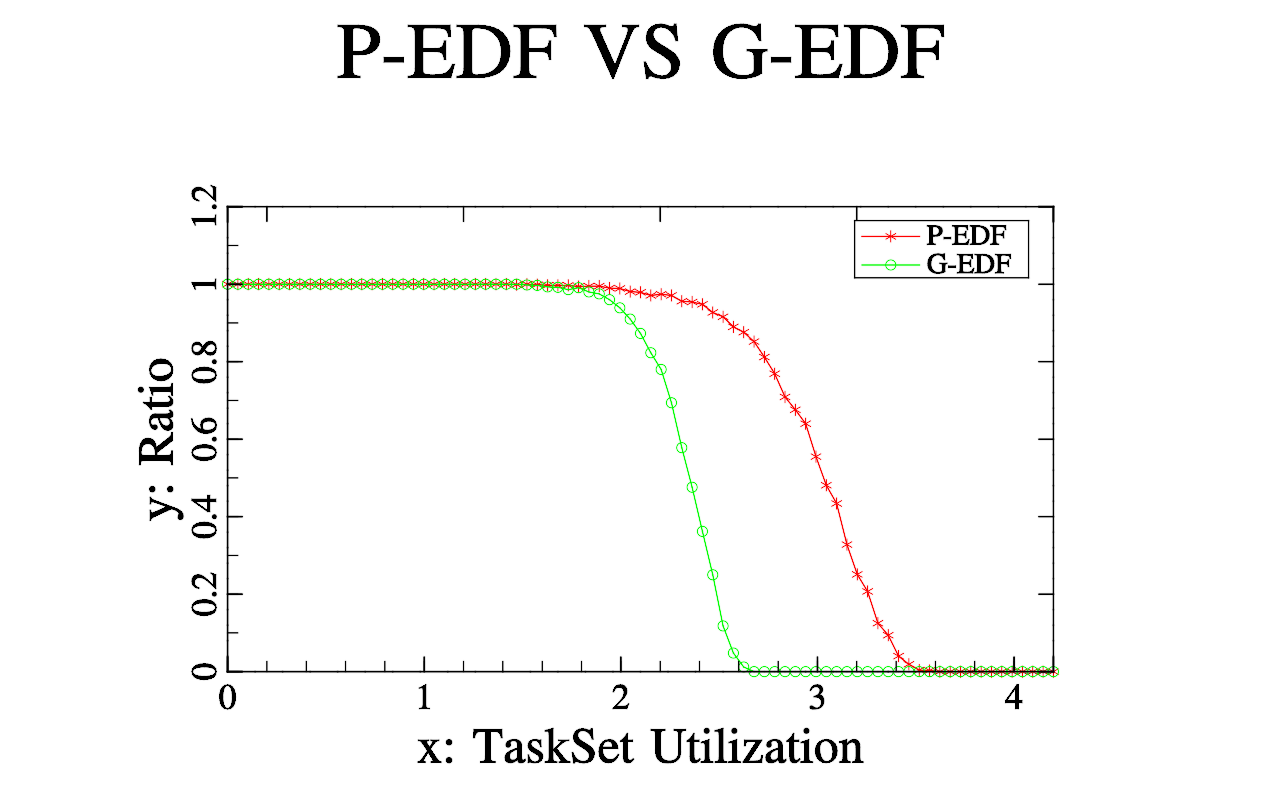
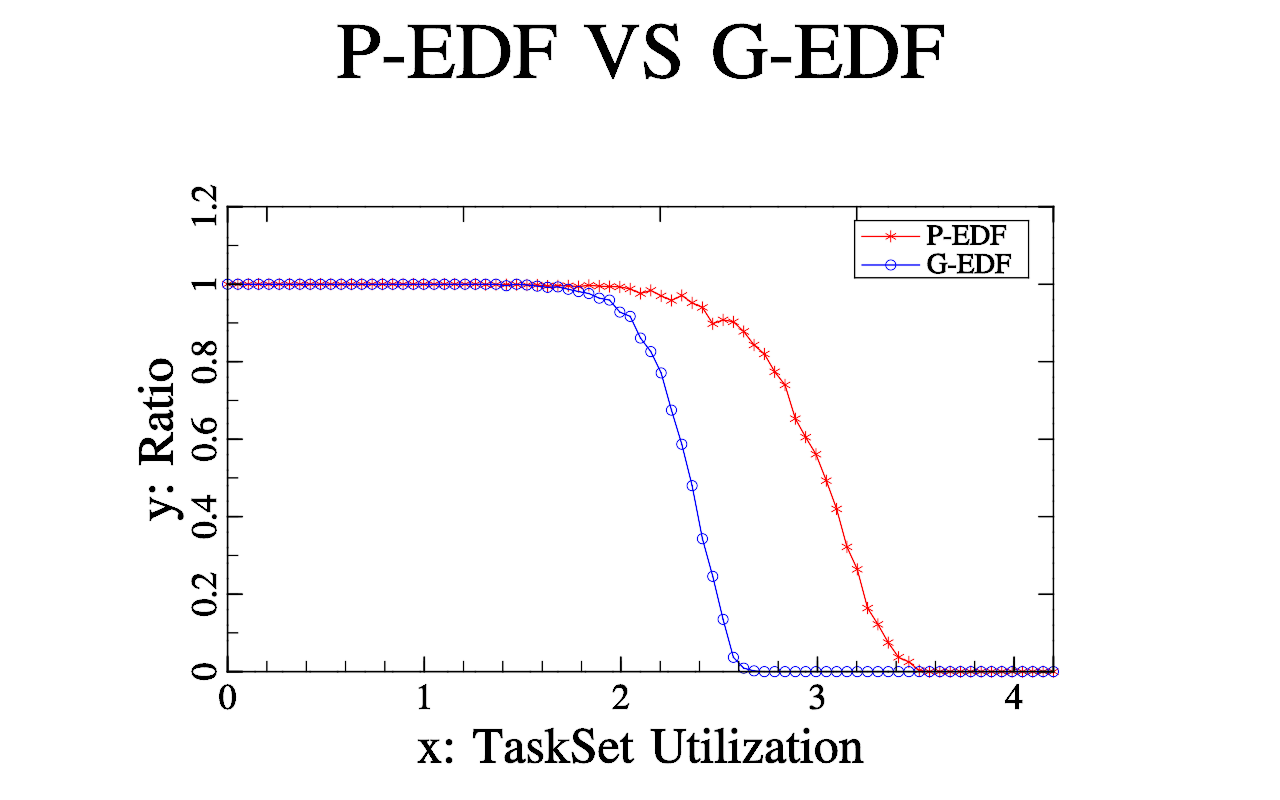
modified makefile

diff --git a/src/scheduling_test.cpp b/src/scheduling_test.cpp
@@ -155,7 +155,7 @@ void Export_Chart(const char* path, const char* title, double min, double max, d
 		result_sets.push_back(temp);
 	}
 	va_end(arg_ptr);
-	const char *line_style[] = {"r*","go","b+","cs","yd"};
+	const char *line_style[] = {"r*","bo","g+","cs","yd"};
 	mglGraph gr;	
 	gr.SetSize(1280,800);
 	gr.SetQuality(3);
